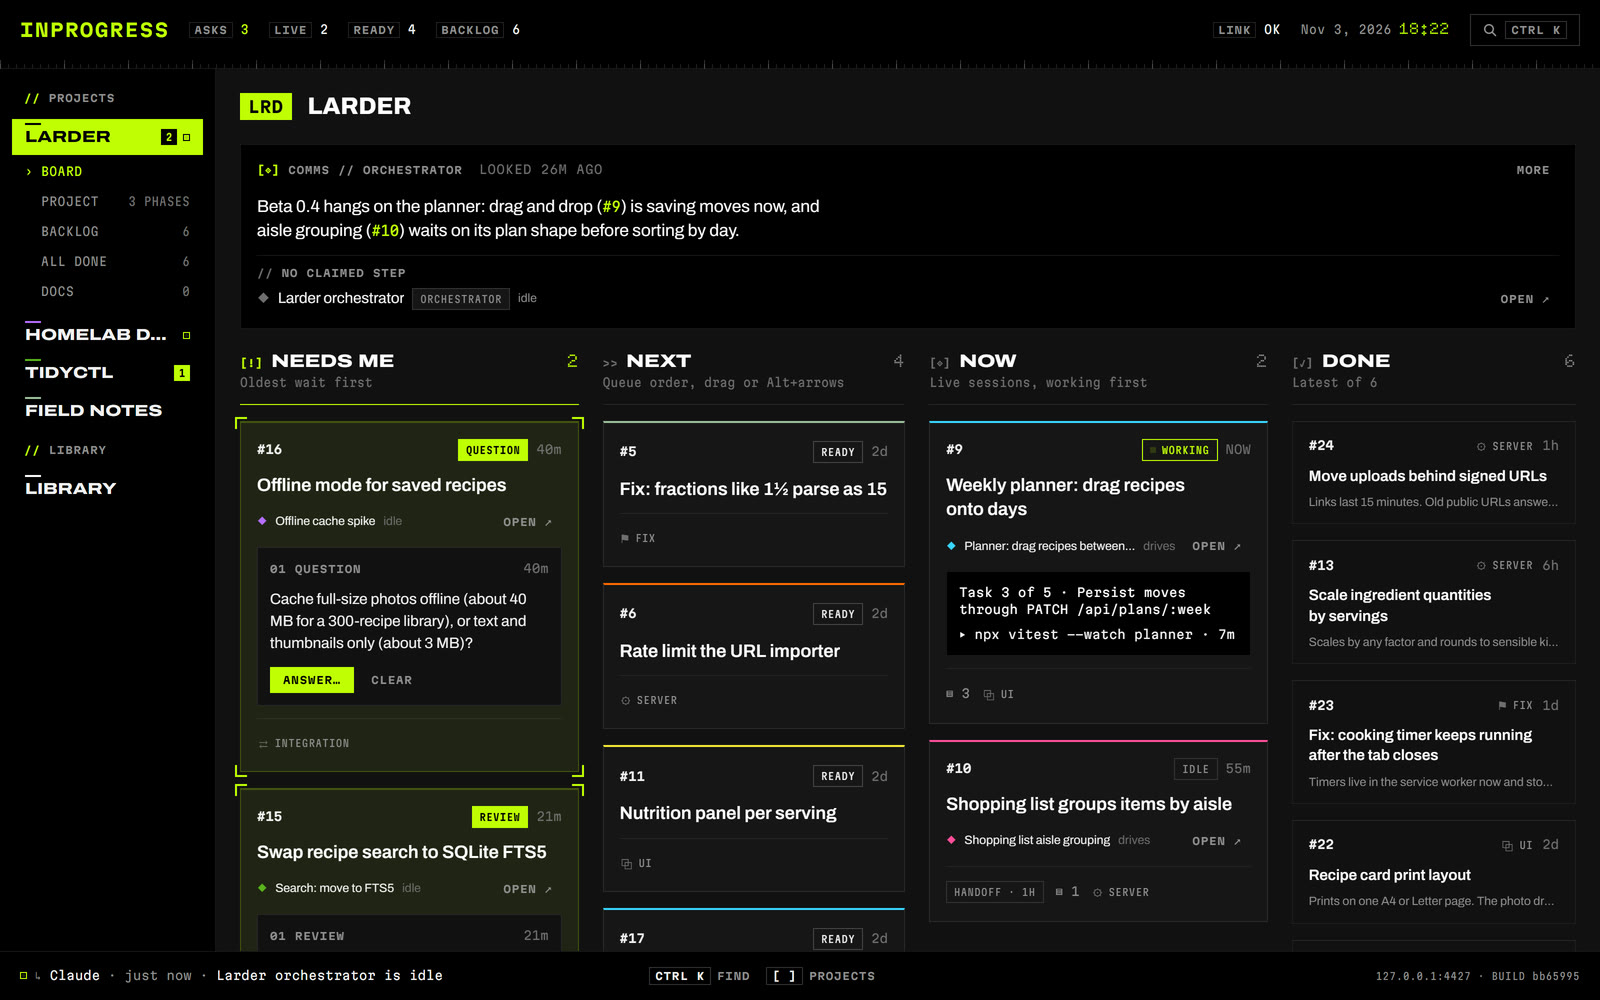
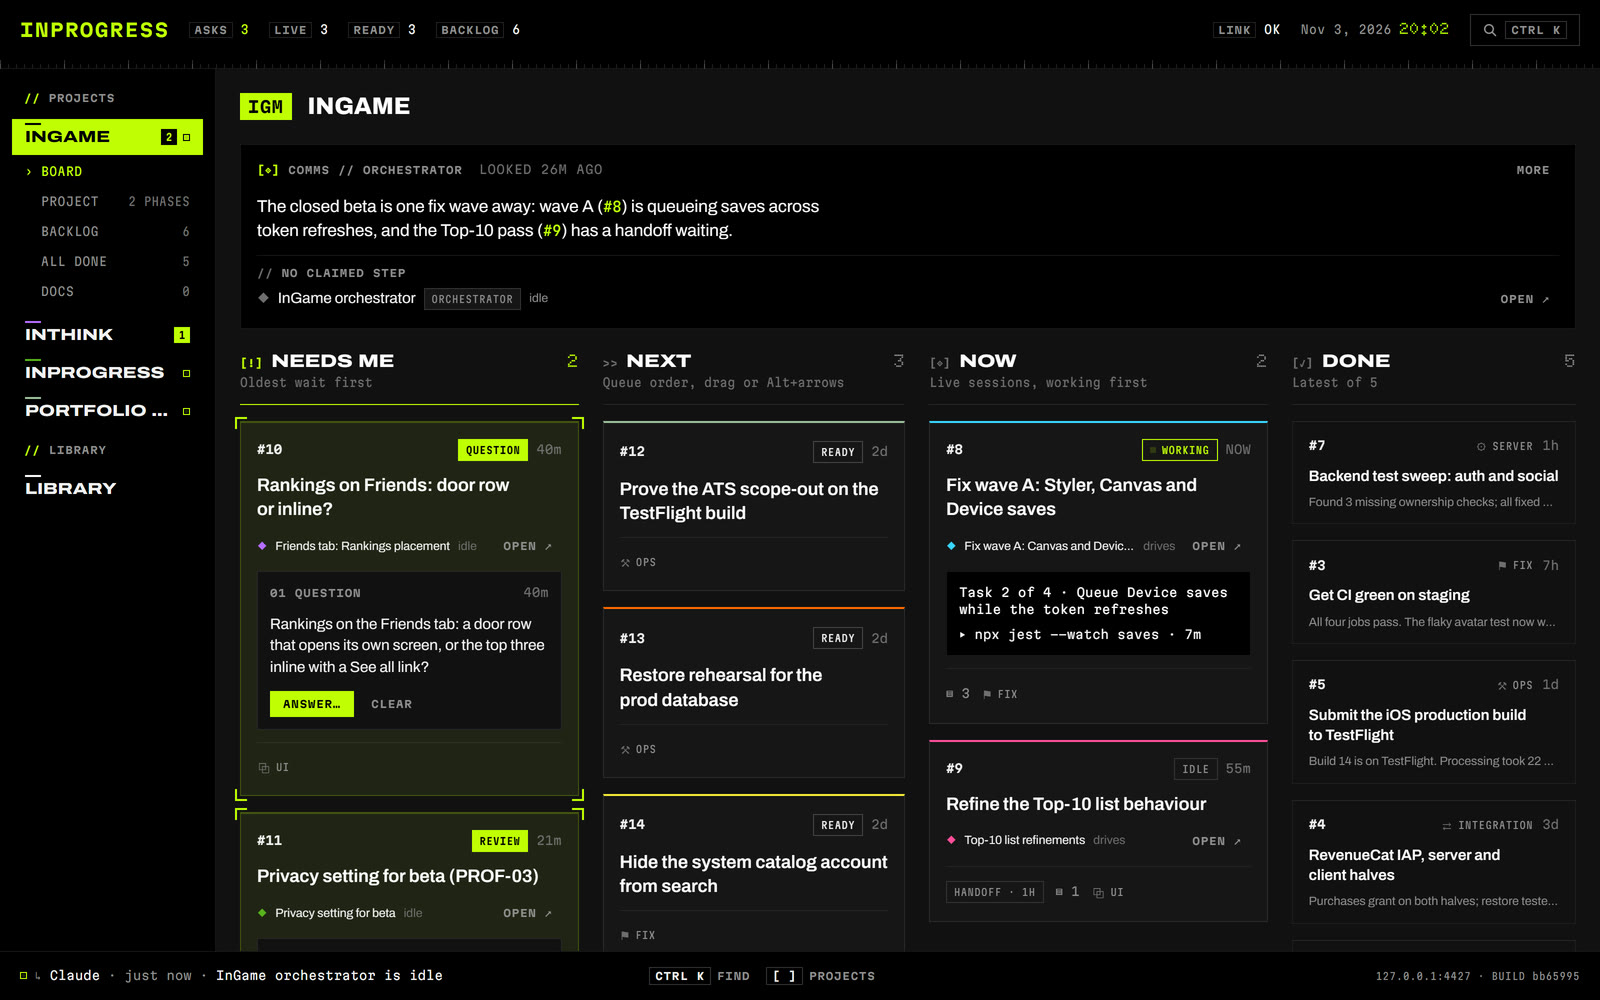
Reshoot the window on data like my own projects

diff --git a/README.md b/README.md
@@ -5,10 +5,10 @@ I usually have several Claude Code sessions going at once, across more than one 
 InProgress is a small local window that sits beside Claude and keeps that picture in one place. For each project it shows what needs me, what is in flight and which session is on it, what comes next, and what got done. Claude keeps it up to date while it works. My part is reading it, answering whatever is waiting, and choosing the order of the work.
 
 <p align="center">
-  <img src="docs/images/desktop.jpg" width="600" alt="The InProgress board in a wide window, on a sample project">
+  <img src="docs/images/desktop.jpg" width="600" alt="The InProgress board in a wide window">
   <img src="docs/images/split.jpg" width="195" alt="The same board in the narrow window beside Claude">
 </p>
-<p align="center"><em>Wide and narrow, on a sample project.</em></p>
+<p align="center"><em>Wide and narrow.</em></p>
 
 ## What you see and do
 
